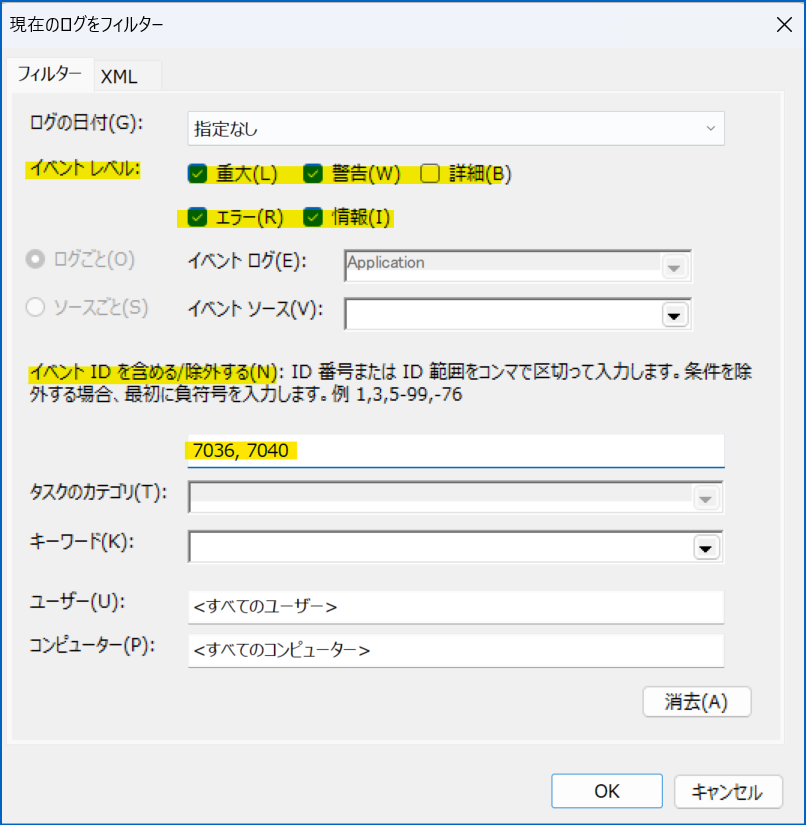
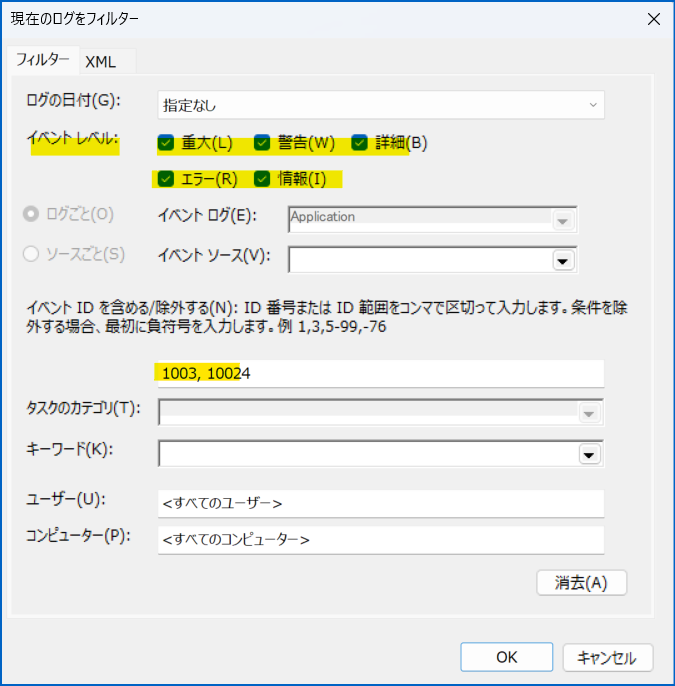
some images changed, added the NOTE section

diff --git a/articles/LogAnalytics/HowToCollectCutomEventlog.md b/articles/LogAnalytics/HowToCollectCutomEventlog.md
@@ -24,7 +24,7 @@ tags:
 ## はじめに
 Windows イベント ログは、データ収集ルール (DCR) のデータ ソースとして使用できるものの 1 つです。  
 Windows イベント ログの種類は多数存在し、Azure portal でデフォルトで用意されているものと、そうでないものがあります。  
-今回は、Azure portal でデフォルトで用意されていない Windows イベント ログ (以降、Windows イベント ログ) の収集設定方法についてご紹介します。
+今回は、Azure portal でデフォルトで用意されていない Windows イベント ログ (以降、カスタム Windows イベント ログ) の収集設定方法についてご紹介します。
 
 https://learn.microsoft.com/ja-jp/azure/azure-monitor/agents/data-collection-windows-events
 
@@ -50,25 +50,41 @@ https://learn.microsoft.com/ja-jp/azure/azure-monitor/agents/data-collection-win
     ![alt text](./HowToCollectCustomEventlog/eventviewer_filter.png)  
 
 4. フィルターの設定ができたら、同ウィンドウの "XML" タブを開きます。
-`<Select Path="2で選択したフォルダ">` と `</Select>` の間の `*[System[(Level=...) and (EventID=...)]]` の箇所を手元にメモします。
+   以下 2 点を手元にメモします。
+   - `<Select Path="2で選択したフォルダ">` の `2で選択したフォルダ` -- A
+   - `<Select Path="2で選択したフォルダ">` と `</Select>` の間の `*[System[(Level=...) and (EventID=...)]]` の箇所 -- B
 
     ![alt text](./HowToCollectCustomEventlog/eventviewer_xml.png)
+
+> [!NOTE]  
+> 上記の方法で取得した XPath が有効であるかを確認したい場合、ローカルで確認することができます。  
+> 手順は以下の通りです。  
+> 1. Windows コンピュータで、PowerShell を開きます。  
+> 2. 以下のクエリを実行します。  
+>    この際、$XPath には、上記 4 で取得した B の値を設定してください。  
+>    また、$LogName には、上記 4 で取得した A の値を設定してください。  
+> ```   
+> $XPath = '*[System[EventID=1035]]'   
+> $LogName = 'Application' 
+> Get-WinEvent -LogName $LogName -FilterXPath $XPath
+> ```  
+> 3. 結果を確認します。ログの一覧が表示されれば、指定した XPath は有効であると判断できます。
 
 ### データ収集ルールを作成する
 1. Azure potral にログインします。
 2. "deta collection rules" を選択します。
-3. "作成" を押下し、"基本" タブの各値を入力します。  
+3. [作成] を押下し、"基本" タブの各値を入力します。  
     続いて "リソース" タブで収集元 VM を選択・追加します。
-4. "収集と配信" タブで "データ ソースの追加" を押下します。  
+4. "収集と配信" タブで [データ ソースの追加] を押下します。  
     右ペイン内 "データ ソース" タブの "データ ソースの種類" で "Windows イベント ログ" を選択します。  
-5. [カスタム] を押下し、入力欄に [収集したいイベント ログの XPath の取得](#収集したいイベント-ログの-xpath-の取得) にて取得した XPath の先頭に `System!` を足したものを入力し、[追加] を押下します。  
+5. [カスタム] を押下し、入力欄に [収集したいイベント ログの XPath の取得](#収集したいイベント-ログの-xpath-の取得) にて取得した XPath の先頭に `<4で取得した A の値>!` ("<>" は不要です) を足したものを入力し、[追加] を押下します。  
     ![alt text](./HowToCollectCustomEventlog/dcr_addDatasource.png)
 
-6. "次へ : ターゲット >" を押下し、"+ ターゲットの追加" を押下します。  
+6. [次へ : ターゲット >] を押下し、[+ ターゲットの追加] を押下します。  
     "ターゲットの種類" で "Azure Monitor Logs" を選択し、収集先となる Log Analytics ワークスペースを選択し、"データ ソースの追加" を押下します。  
     ![alt text](./HowToCollectCustomEventlog/dcr_addTarget.png)
 
-7. [確認と作成] タブにて "作成" を押下し、完了です。
+7. [確認と作成] タブにて [作成] を押下し、完了です。
 
 ### Windows イベント ログが収集されていることを確認する
 1. Azure portal にログインします。
